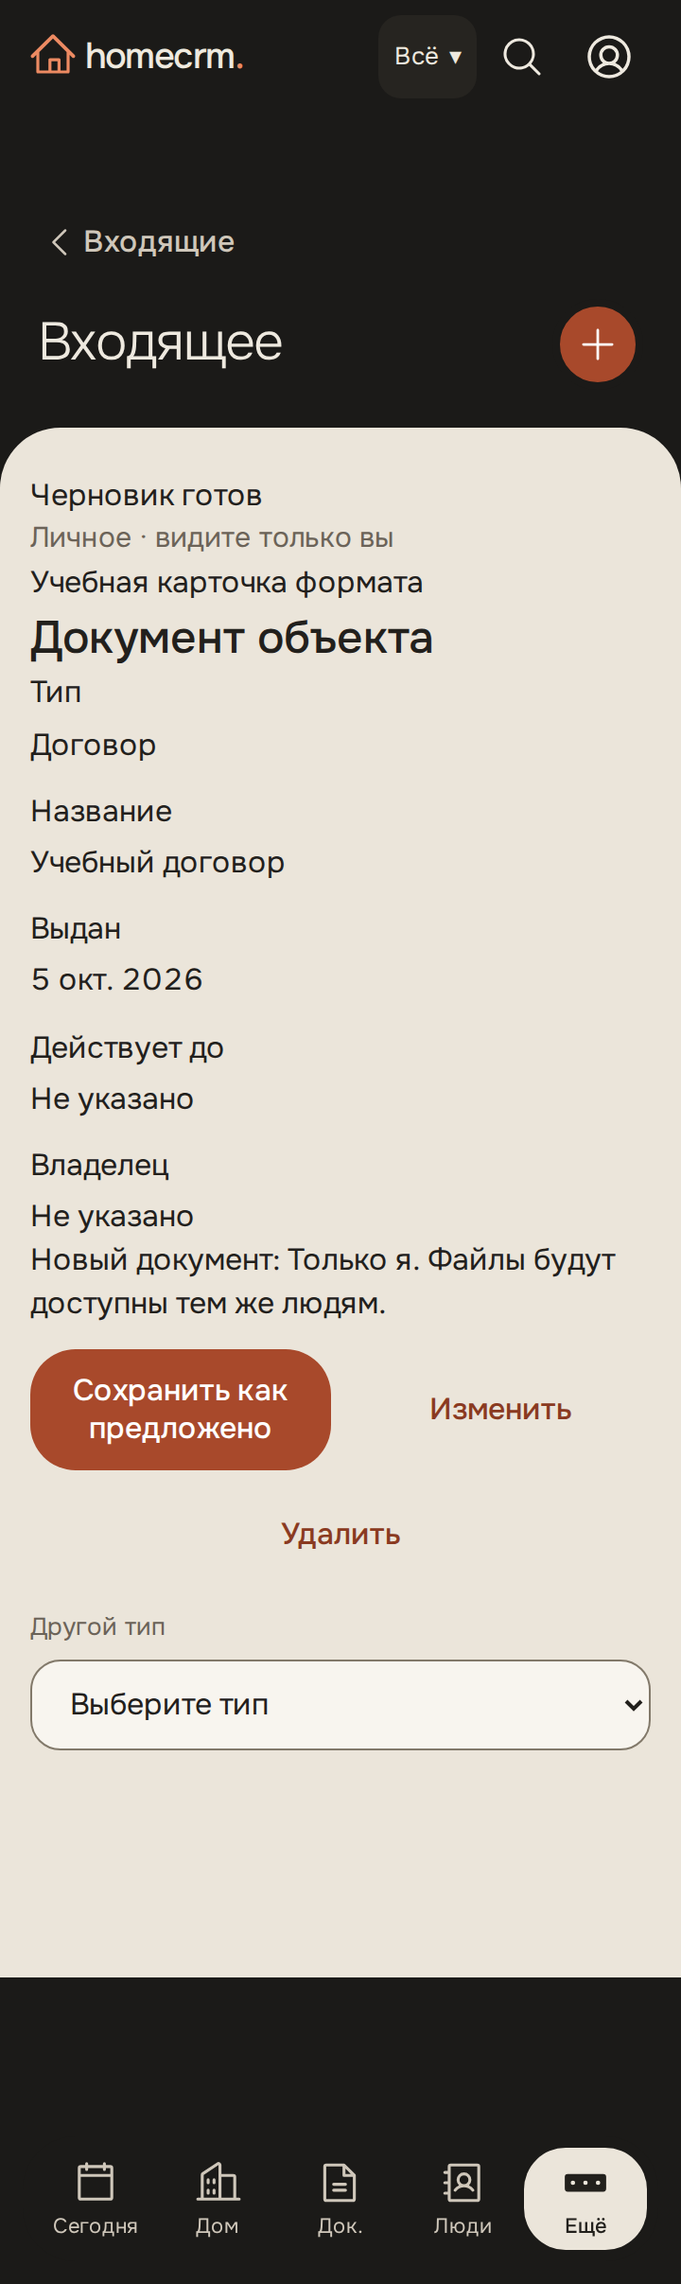
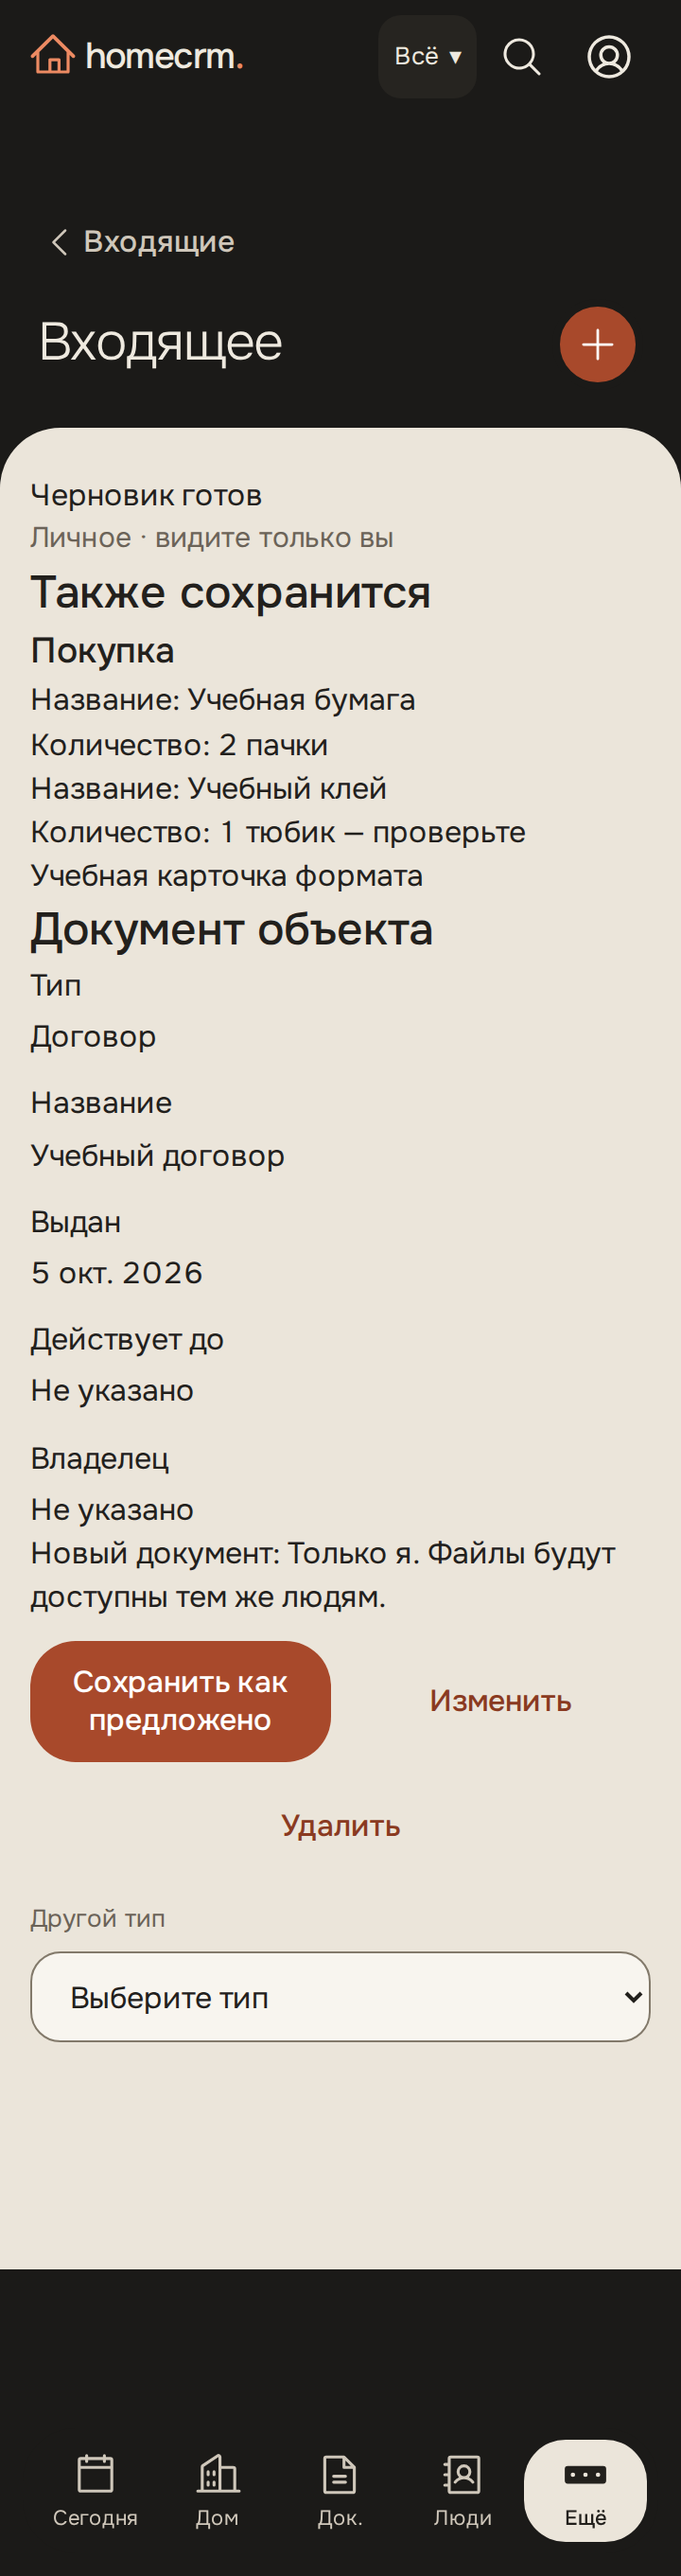
INBOX-1: показывать все покупки до подтверждения
Предпросмотр массива показывал только первую позицию. Теперь видны все покупки и их неуверенные поля; Linux-регрессия документа с двумя покупками проверяет видимость обеих и сохранение обычными API на 360/412 px.

diff --git a/apps/web/src/inbox/InboxReview.tsx b/apps/web/src/inbox/InboxReview.tsx
@@ -6,6 +6,7 @@ import {
   DraftSchemas,
   INBOX_KINDS,
   type InboxDraft,
+  type ShoppingDraft,
   TaskFields,
 } from '@homecrm/shared';
 import { useQueryClient } from '@tanstack/react-query';
@@ -73,48 +74,52 @@ const labels: Record<string, string> = {
   personId: 'Человек',
   meterId: 'Счётчик',
 };
-function fieldsOf(fields: InboxDraft['fields']) {
-  return Object.entries(Array.isArray(fields) ? (fields[0] ?? {}) : fields).flatMap(
-    ([key, field]) => {
-      if (field && typeof field === 'object' && 'value' in field)
-        return [
-          {
-            key,
-            label: labels[key] ?? key,
-            value:
-              key === 'totalCents' && typeof field.value === 'number'
-                ? formatRub(field.value)
-                : ['date', 'issuedOn', 'expiresOn', 'dueOn'].includes(key) &&
+function fieldsOf(
+  fields: InboxDraft['fields'] | ShoppingDraft,
+): { key: string; label: string; value: string; confident: boolean }[] {
+  if (Array.isArray(fields))
+    return fields.flatMap((entry, index) =>
+      fieldsOf(entry).map((field) => ({ ...field, key: `${index}:${field.key}` })),
+    );
+  return Object.entries(fields).flatMap(([key, field]) => {
+    if (field && typeof field === 'object' && 'value' in field)
+      return [
+        {
+          key,
+          label: labels[key] ?? key,
+          value:
+            key === 'totalCents' && typeof field.value === 'number'
+              ? formatRub(field.value)
+              : ['date', 'issuedOn', 'expiresOn', 'dueOn'].includes(key) &&
+                  typeof field.value === 'string' &&
+                  /^\d{4}-\d{2}-\d{2}$/.test(field.value)
+                ? formatFullDate(field.value as DateOnly)
+                : key === 'type' &&
                     typeof field.value === 'string' &&
-                    /^\d{4}-\d{2}-\d{2}$/.test(field.value)
-                  ? formatFullDate(field.value as DateOnly)
-                  : key === 'type' &&
-                      typeof field.value === 'string' &&
-                      field.value in DOCUMENT_LABELS
-                    ? DOCUMENT_LABELS[field.value as DocumentType]
-                    : String(field.value ?? 'Не указано'),
-            confident: field.confident,
-          },
-        ];
-      if (Array.isArray(field))
-        return field.map((f, i) =>
-          'name' in f
-            ? {
-                key: `${key}-${i}`,
-                label: f.name,
-                value: f.value.value,
-                confident: f.value.confident,
-              }
-            : {
-                key: `${key}-${i}`,
-                label: `Зона ${i + 1}`,
-                value: f.value ?? 'Не указано',
-                confident: f.confident,
-              },
-        );
-      return [];
-    },
-  );
+                    field.value in DOCUMENT_LABELS
+                  ? DOCUMENT_LABELS[field.value as DocumentType]
+                  : String(field.value ?? 'Не указано'),
+          confident: field.confident,
+        },
+      ];
+    if (Array.isArray(field))
+      return field.map((f, i) =>
+        'name' in f
+          ? {
+              key: `${key}-${i}`,
+              label: f.name,
+              value: f.value.value,
+              confident: f.value.confident,
+            }
+          : {
+              key: `${key}-${i}`,
+              label: `Зона ${i + 1}`,
+              value: f.value ?? 'Не указано',
+              confident: f.confident,
+            },
+      );
+    return [];
+  });
 }
 export function InboxReview() {
   const { inboxId, editKind } = useParams();

diff --git a/docs/runbook.md b/docs/runbook.md
@@ -641,7 +641,8 @@ Worker не читает текст, черновики или ключи фай
 Linux Playwright проверяет захват, заполненную обычную форму, документ личности,
 новый объект, офлайн-захват с разбором после отправки, покупку с предупреждением,
 смешанный разбор, открытие новых и кнопку «Разобрать» на 360/412 px с axe.
-Итог: **20/20**, включая предпросмотр рублей, русских дат и типа документа;
+Итог: **20/20**, включая предпросмотр рублей, русских дат и типа документа,
+показ всех сопутствующих покупок массива и сохранение двух позиций обычными API;
 серьёзных и критичных нарушений axe нет.
 Входы на «Сегодня» и в «Ещё» дополнительно проверены существующей навигацией:
 **2/2** сценария на 360/412 px, контраст и цели нажатия проходят.
